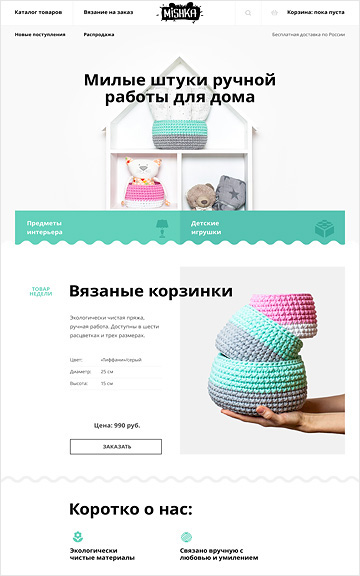
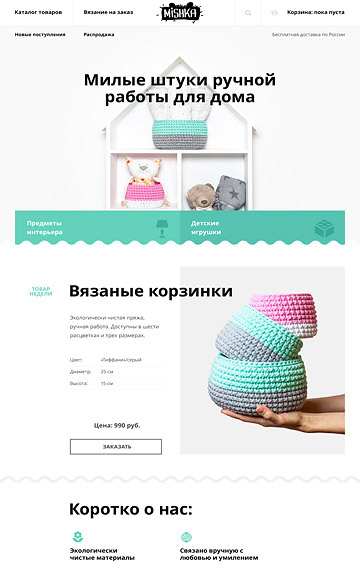
Изображения и стили после изменений

diff --git a/index.html b/index.html
@@ -90,22 +90,22 @@
             <ul> 
                 <li class="clients-item">
                     <a href="https://htmlacademy.ru/intensive/htmlcss">
-                        <img src="img/PNG/logo-1.png" width="" height="" alt="HTMLAcademy">
+                        <img src="img/PNG/logo-1.png" width="200px" height="69px" alt="HTMLAcademy">
                     </a>
                 </li>
                 <li class="clients-item">
                     <a href="#">
-                        <img src="img/PNG/logo-2.png" width="" height="" alt="Borodinski">
+                        <img src="img/PNG/logo-2.png" width="210px" height="90px" alt="Borodinski">
                     </a>
                 </li>
                 <li class="clients-item">
                     <a href="#">
-                        <img src="img/PNG/logo-3.png" width="" height="" alt="Pink">
+                        <img src="img/PNG/logo-3.png" width="185px" height="52px" alt="Pink">
                     </a>
                 </li>
                 <li class="clients-item">
                     <a href="#">
-                        <img src="img/PNG/logo-4.png" width="" height="" alt="Mishka">
+                        <img src="img/PNG/logo-4.png" width="172px" height="85px" alt="Mishka">
                     </a>
                 </li>
             </ul>

diff --git a/css/style.css b/css/style.css
@@ -1,16 +1,18 @@
 body {
-    font-size: 16pt;
-    font-family: Roboto, serif;
+    font-size: 16px;
+    font-family: Roboto, Arial, Helvetica, sans-serif;
+    line-height: 24px;
 }
 
-.container .container-heading {
-    font-size: 55pt;
-    font-family: Roboto, serif;
+.container-heading {
+    font-size: 55px;
+    font-family: Roboto, Arial, Helvetica, sans-serif;
+    font-weight: 500;
 }
 
-.container .catalog .item-title {
-    font-size: 18pt;
+.item-title {
+    font-size: 18px;
     font-weight: bold;
-    font-family: Roboto, serif;
+    font-family: Roboto, Arial, Helvetica, sans-serif;
     text-transform: uppercase;
 }
